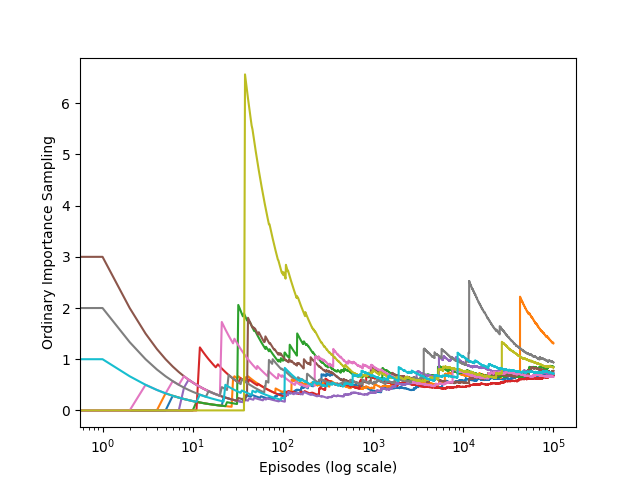
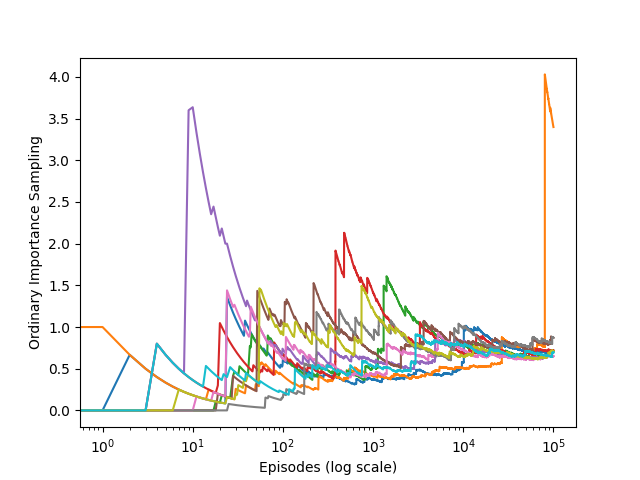
feat: Ex 5.5 Ordinary Importance Sampling and Weighted Importance Sampling p. 106~108

diff --git a/RL2nd/Ch_5/infinite_variance.py b/RL2nd/Ch_5/infinite_variance.py
@@ -5,6 +5,11 @@ import os
 current_path = os.path.dirname(os.path.abspath(__file__))
 matplotlib.use('Agg')
 
+"""
+Ordinary importance-sampling
+-> weighted importance-sampling도 해보기.
+"""
+
 ACTION_BACK = 0
 ACTION_END = 1
 
@@ -30,7 +35,7 @@ def play():
 
 def figure_5_4():
     runs = 10
-    episodes = 100000
+    episodes = 100_000
     for run in range(runs):
         rewards = []
         for episode in range(0, episodes):
@@ -50,5 +55,36 @@ def figure_5_4():
     plt.savefig(current_path + '/images/figure_5_4.png')
     plt.close()
 
+def figure_5_4_1():
+    """
+    Using Weighted Importance Sampling
+    -> Results (NaN, 1, ,,,): p. 107 참조 
+    """
+    runs = 10
+    episodes = 100_000
+    for run in range(runs):
+        rewards = []
+        rhos = []
+        for episode in range(0, episodes):
+            reward, trajectory = play()
+            if trajectory[-1] == ACTION_END:
+                rho = 0
+            else:
+                rho = 1.0 / pow(0.5, len(trajectory))
+            rewards.append(rho * reward)
+            rhos.append(rho)
+        rewards = np.add.accumulate(rewards)
+        rhos = np.add.accumulate(rhos)
+        estimations = np.asarray(rewards) / np.asarray(rhos)
+        print(estimations)
+        plt.plot(estimations)
+    plt.xlabel('Episodes (log scale)')
+    plt.ylabel('Weighted Importance Sampling')
+    plt.xscale('log')
+
+    plt.savefig(current_path + '/images/figure_5_4_1.png')
+    plt.close()
+
 if __name__ == '__main__':
     figure_5_4()
+    figure_5_4_1()
